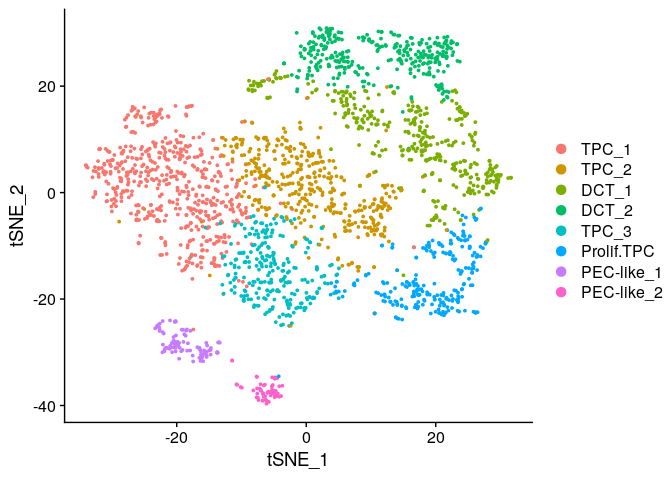
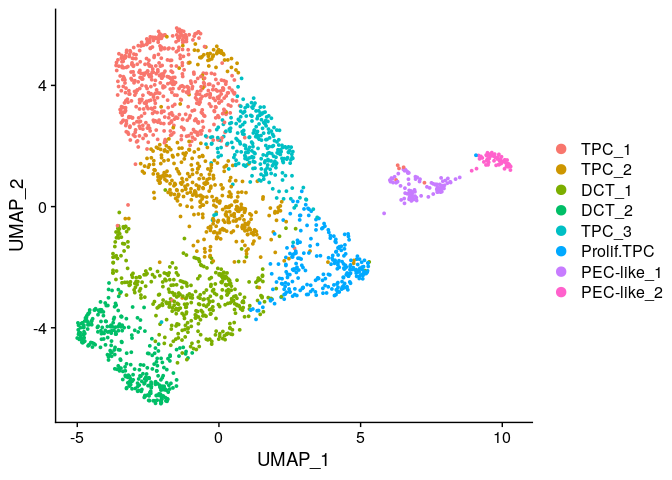
Add umap

diff --git a/Individual_analysis_CK5_early_organoid/4_final_assignment_CK5_organoid.md b/Individual_analysis_CK5_early_organoid/4_final_assignment_CK5_organoid.md
@@ -153,8 +153,18 @@ ren_id <- c("0"="TPC_1",
 SeuratObject <- RenameIdents(SeuratObject, ren_id)
 ```
 
+### TSNE
+
 ``` r
 DimPlot(SeuratObject, reduction="tsne")
+```
+
+![](4_final_assignment_CK5_organoid_files/figure-gfm/tsne_final-1.png)<!-- -->
+
+### UMAP
+
+``` r
+DimPlot(SeuratObject, reduction="umap")
 ```
 
 ![](4_final_assignment_CK5_organoid_files/figure-gfm/umap_final-1.png)<!-- -->
